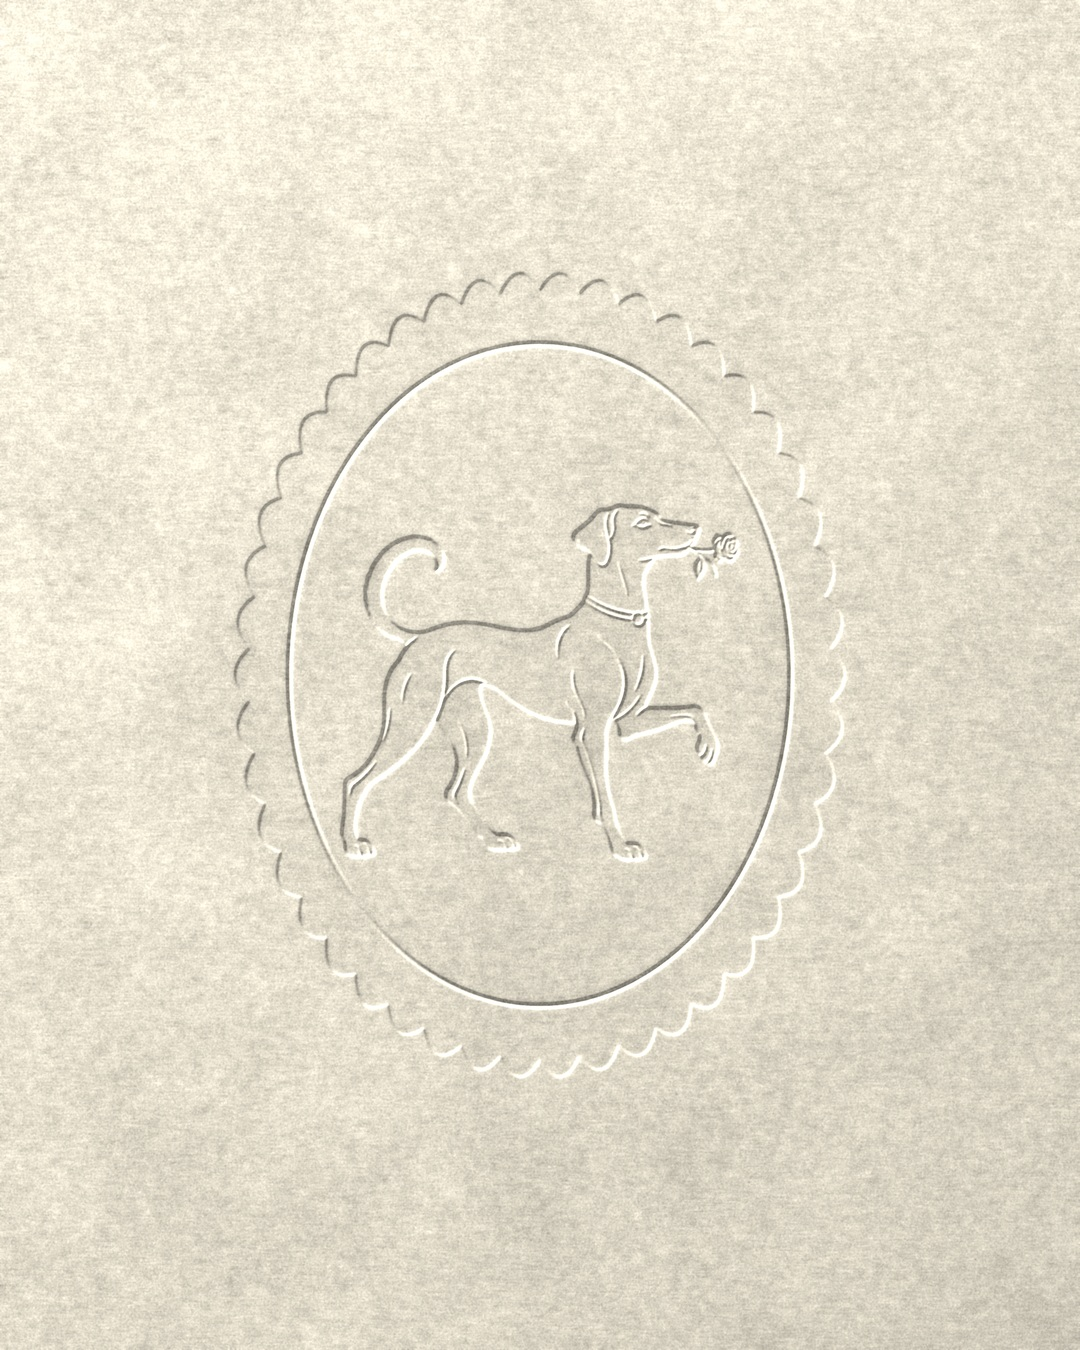
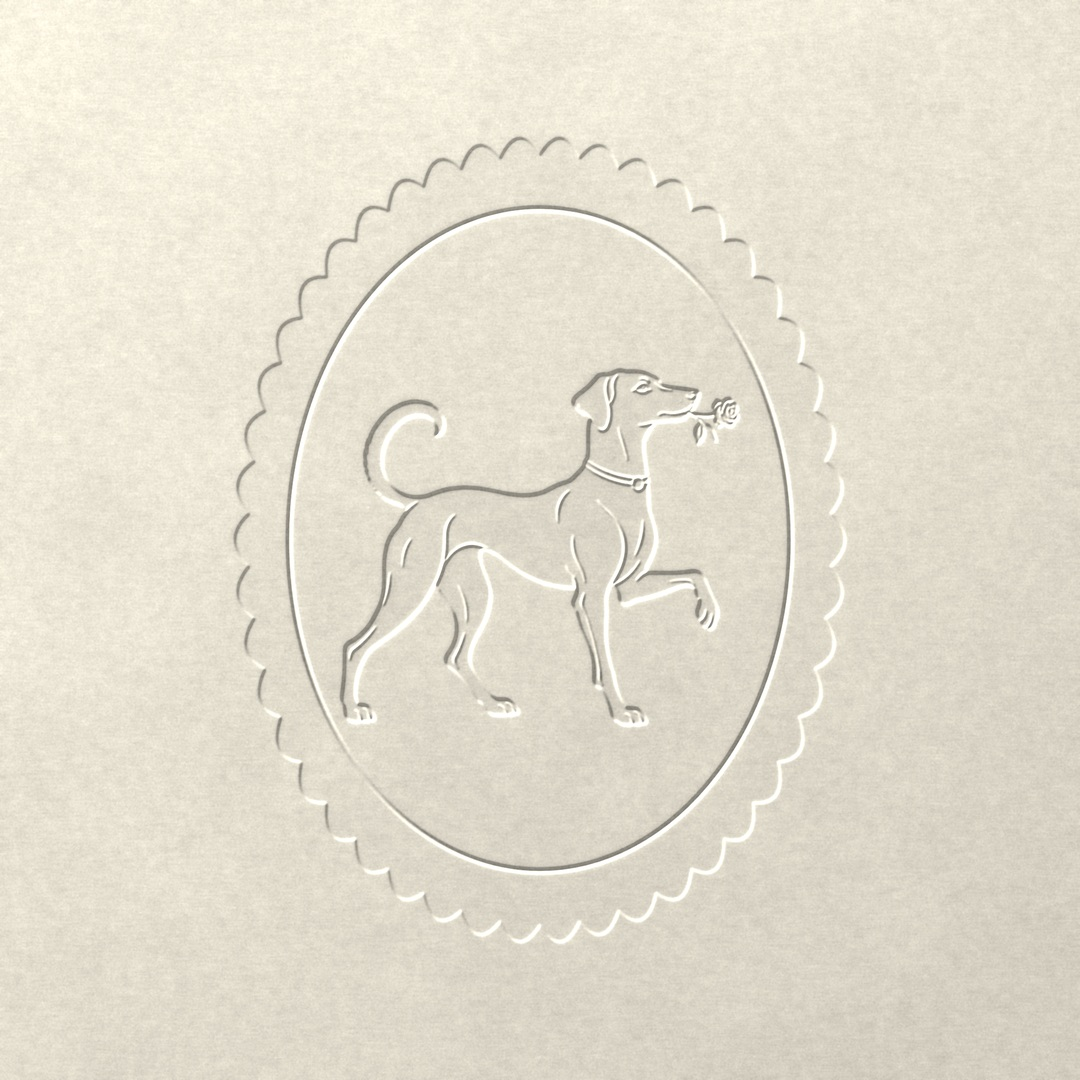
EMS: Maison Caramelo, prancha ajustada (selo quadrado e papel mais suave)
Claude-Session: https://claude.ai/code/session_01CmCiK9WG5RWJH1hBNUU9U9

diff --git a/Emi/ems-5-direcoes-pet/projeto/marcas/maison-caramelo/relevo.py b/Emi/ems-5-direcoes-pet/projeto/marcas/maison-caramelo/relevo.py
@@ -1,11 +1,12 @@
 # Maison Caramelo · relevo seco tom sobre tom (como a referência 3): o logo prensado num papel/couro vinho.
 # mascara = logo.html renderizado preto no branco em 2x; o relevo vem do campo de altura (máscara desfocada),
 # luz de cima à esquerda (brilho na borda de cima, sombra embaixo à direita), papel com fibra e grão.
-# uso: relevo.py <mascara_2x.png> <saida.jpg> [cor_base=#4A1D22] [forca=1]
+# uso: relevo.py <mascara_2x.png> <saida.jpg> [cor_base=#4A1D22] [forca=1] [textura=1]
 import sys, numpy as np, cv2
 from PIL import Image
 mk, saida = sys.argv[1], sys.argv[2]
 base = sys.argv[3] if len(sys.argv) > 3 else '#4A1D22'; forca = float(sys.argv[4]) if len(sys.argv) > 4 else 1.0
+tex = float(sys.argv[5]) if len(sys.argv) > 5 else 1.0   # intensidade da textura do papel (papel claro pede menos)
 m = 1 - np.asarray(Image.open(mk).convert('L')).astype(np.float32) / 255     # 1 = tinta
 H, W = m.shape
 rng = np.random.default_rng(7)
@@ -21,7 +22,7 @@ luz = (-gx * .75 - gy * 1.0) * 9 * forca                 # positivo nas bordas v
 c = np.array([int(base[i:i + 2], 16) for i in (1, 3, 5)], np.float32) / 255
 # dentro da linha o papel fica um pouco mais escuro (pressão) e acetinado
 dentro = cv2.GaussianBlur(m, (0, 0), 1.0)
-tom = 1 + papel + fibra + np.clip(luz, -.35, .45) - dentro * .06 * forca
+tom = 1 + (papel + fibra) * tex + np.clip(luz, -.35, .45) - dentro * .06 * forca
 out = c[None, None, :] * tom[..., None]
 # vinheta suave de luz (de cima à esquerda)
 yy, xx = np.mgrid[0:H, 0:W].astype(np.float32)
